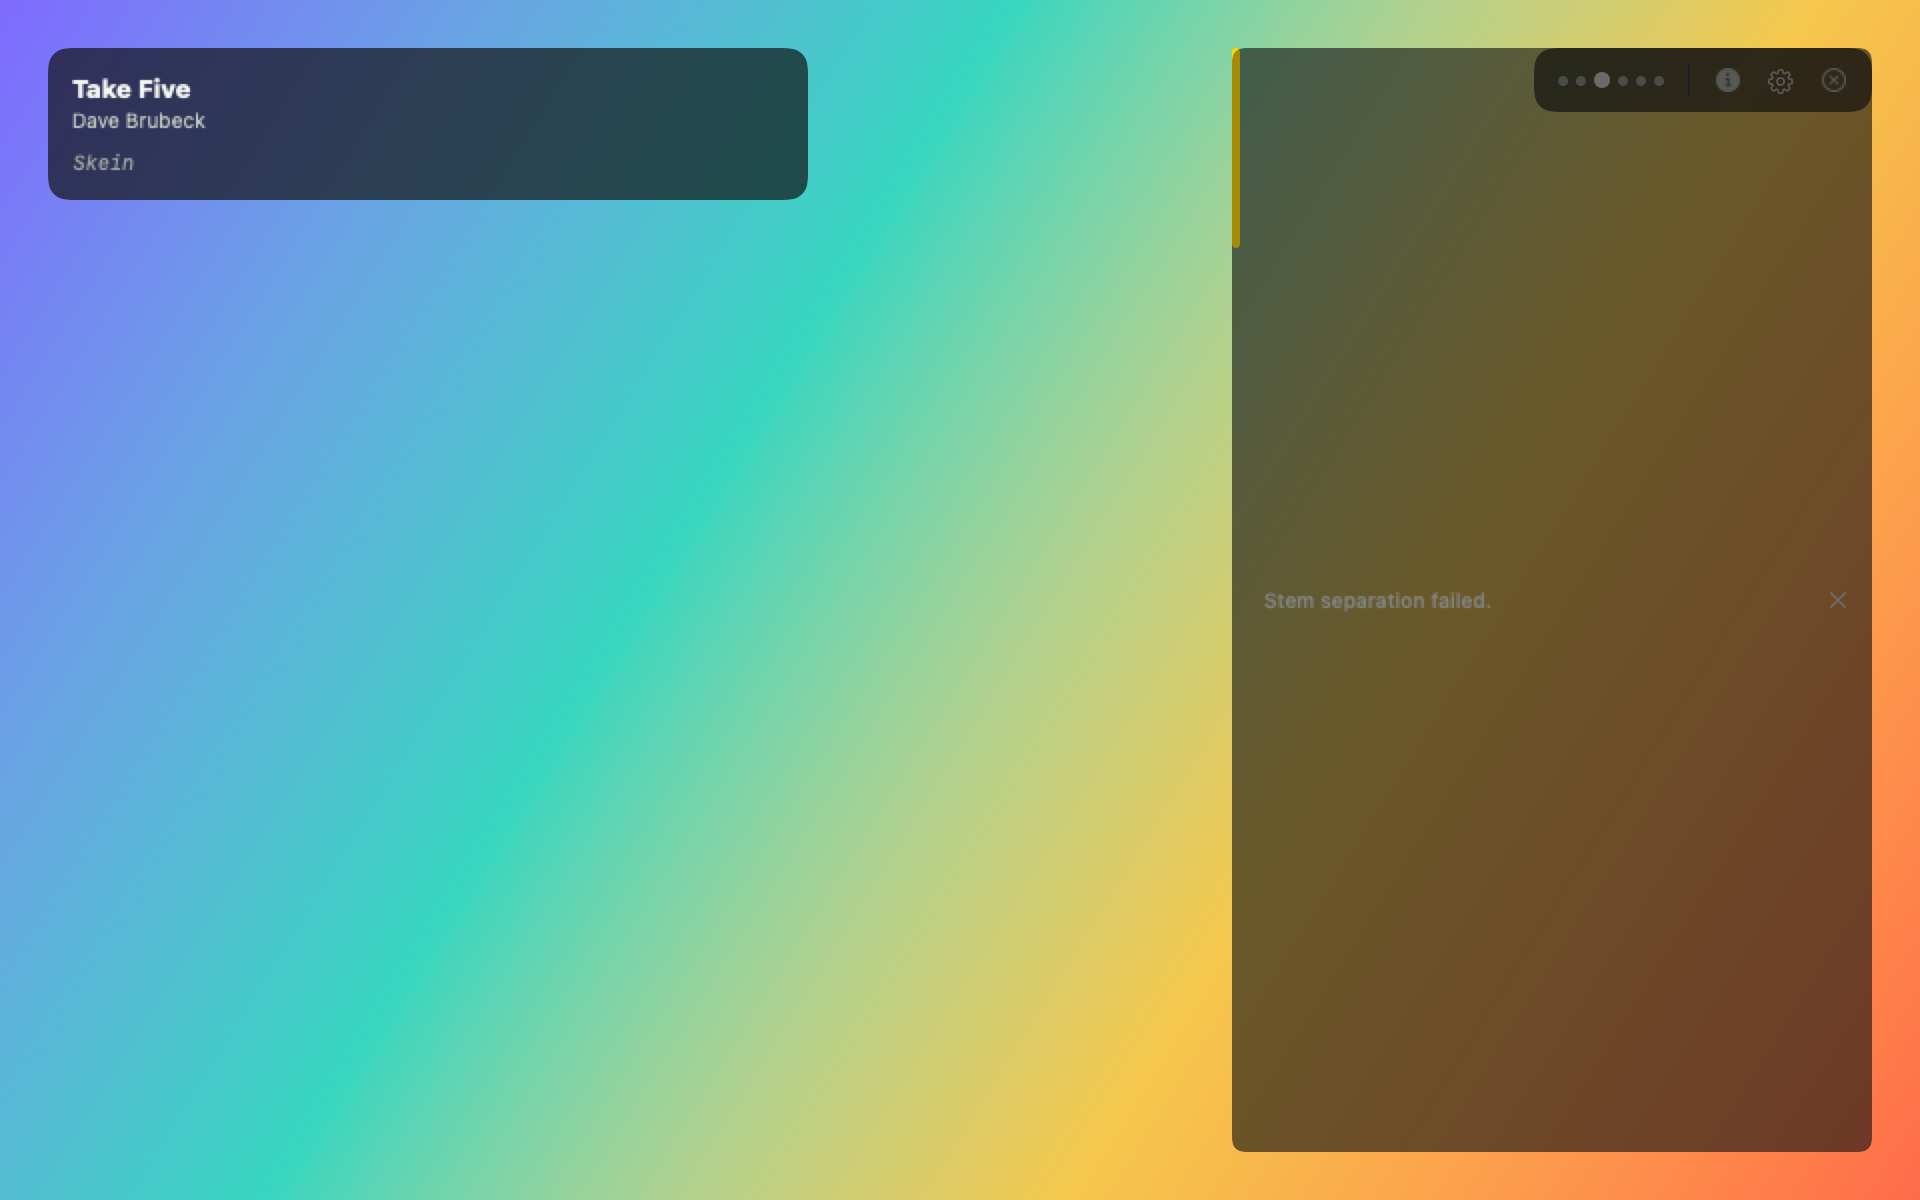
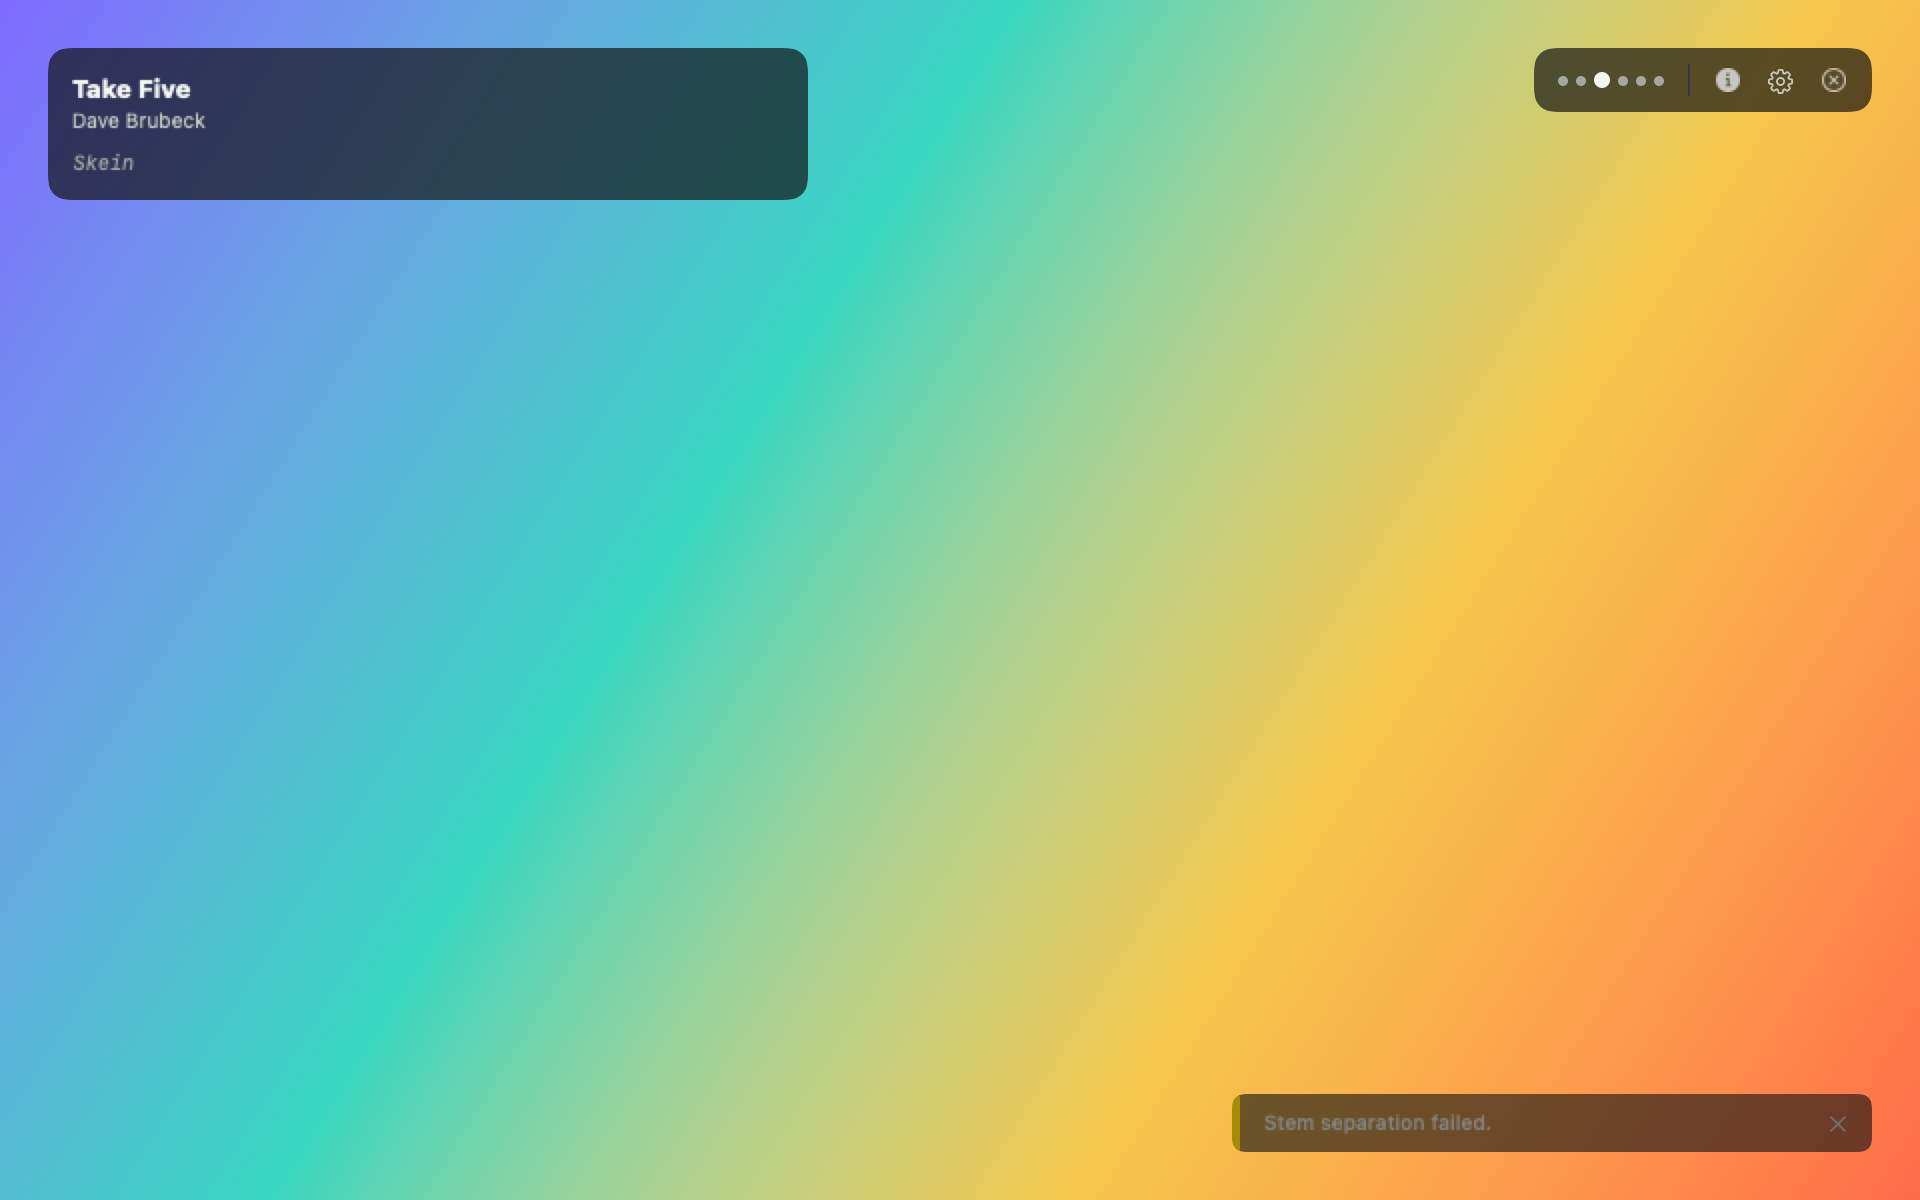
[DS.6] reviews: DS.6 before/after M7 captures
after/ re-rendered on the fixed build; eight window-only live captures of a
local-file session (full after the arrival, quiet, restored by mouse and key,
hidden by Space, track info shown/hidden, the BUG-113 toast before its fix);
CAPTURES.md pairs before/after by filename and marks every inventory row
resolved; UPSTREAM-FINDINGS.md for uzume-site.

Changed region(s): [[0.625, 0.0308, 1.0, 0.9558]]

diff --git a/docs/reviews/DS.6/CAPTURES.md b/docs/reviews/DS.6/CAPTURES.md
@@ -35,7 +35,7 @@ See §Live captures below.
 | `chrome-localFile-paused` | the same, play glyph | **yes** — after Space / the transport's pause |
 | `chrome-listening` | `audioSignalState == .silent` (≥ 3 s): "Listening…" badge top-centre | **yes** — sustained silence mid-session |
 | `chrome-stillPreparing` | `ProgressiveReadinessLevel < .fullyPrepared`: "Still preparing" under the cluster | **yes** — "Start now" before the playlist finished preparing |
-| `chrome-toast-info` / `-warning` / `-degradation` / `-fatal` | one toast per `UzumeToast.Severity`, bottom-trailing | **yes** — display connected / disconnected / stem failure / sustained silence (D-236) |
+| `chrome-toast-info` / `-warning` / `-degradation` / `-fatal` | one toast per `UzumeToast.Severity`, bottom-trailing | **yes** — display connected / disconnected / stem failure / sustained silence (D-236). **`before/` shows BUG-113**: the toast is the full window height. Found here, confirmed live, fixed in DS.6. |
 | `chrome-hidden` | `overlayVisible == false`: nothing drawn, hit-testing off | **yes, before DS.6** — 3 s after any activity. After DS.6 this state is reachable only by the Space toggle; inactivity lands on `chrome-quiet` |
 | `chrome-quiet` *(after only)* | the DS.6 quiet state: one End-session control top-trailing, everything else gone | **yes, after DS.6** — 3 s after any activity |
 | `chrome-trackInfoHidden` *(after only)* | `uzume.settings.visuals.showTrackInformation == false`: no card, no artwork, cluster shows "Show track info" | **yes, after DS.6** |
@@ -53,25 +53,25 @@ these rows and nothing else (fixed-font gate: no output; identifier gate: no out
 
 | # | file:line | what it is | replaced by | resolved |
 |---|---|---|---|---|
-| 1 | `PlaybackChromeView.swift:24` | `Color.teal` — the "still preparing" dot | `StatusTone.info` — the indicator becomes a status placement: `tone.symbol` in `tone.foreground` on `tone.background`, bordered `tone.border` (D-234) | |
-| 2 | `PlaybackChromeView.swift:28` | `.teal.opacity(0.85)` — its text | `StatusTone.info.foreground` | |
-| 3 | `PlaybackChromeView.swift:31` | `.easeIn(duration: 0.4)` — indicator appear | `UzumeAppMotion.standard` (240 ms, exponential ease-out) | |
-| 4 | `PlaybackChromeView.swift:115` | `.easeInOut(duration: 0.5)` — the chrome fade | `UzumeAppMotion.standard` | |
-| 5 | `TrackInfoCardView.swift:136` | `.green.opacity(0.7)` / `.orange.opacity(0.7)` — the Planned/Reactive pill | removed with the pill (D-241 §1) | |
-| 6 | `TrackInfoCardView.swift:142` | `color.opacity(0.15)` — the pill's field | removed with the pill | |
-| 7 | `PlaybackControlsCluster.swift:25` | `Divider().opacity(0.4)` — the separator, a system colour at an ad-hoc alpha | a 1 × 16 pt rule in `UzumeAppColor.line` | |
-| 8 | `SessionProgressDotsView.swift:45`, `:86` | `easeInOut(1.0).repeatForever` — the current-dot pulse | **kept** — an ambient pulse, not a state change; the three design-system durations govern feedback / state / opening. Already removed under reduced motion; `PlaybackChromeReducedMotionTests` pins that | |
-| 9 | `SessionProgressDotsView.swift:92` | `.easeInOut(duration: 0.25)` — current-dot change | `UzumeAppMotion.standard` | |
-| 10 | `ListeningBadgeView.swift:31` | `linear(1.5).repeatForever` — the spinner | **kept** — continuous by design, removed under reduced motion (pinned by the same test) | |
-| 11 | `ListeningBadgeView.swift:45` | `.easeInOut(duration: 0.4)` — badge fade | `UzumeAppMotion.standard` | |
-| 12 | `ToastRegion.swift:26` | `.easeInOut(duration: 0.3)` + `.move(edge:)` — toast insert | `UzumeAppMotion.standard`; reduced motion drops the slide for a crossfade | |
-| 13 | `LocalFileTransportBar.swift:3`, `:13` | the `.impeccable.md` / "coral is action" header | rewritten to the design system's rule: violet is the interaction accent | |
-| 14 | `LocalFileTransportBar.swift:66` | `DashboardTokens.Color.surfaceRaised` | `UzumeAppColor.surfaceRaised` (`--color-surface-raised`) | |
-| 15 | `LocalFileTransportBar.swift:68` | `DashboardTokens.Color.purpleGlow.opacity(0.55)`, radius 28 — the purple glow | `UzumeAppShadow.raised` (`--shadow-raised`: 0 16 42 / 32 % black). DESIGN.md: the bar genuinely floats, so it takes the raised shadow; "vaporwave glow" is a listed Don't | |
-| 16 | `LocalFileTransportBar.swift:76` | `DashboardTokens.Color.border.opacity(0.6)` | `UzumeAppColor.line` (`--color-line`) | |
-| 17 | `LocalFileTransportBar.swift:114`, `:147` | `.easeInOut(duration: 0.15)` — hover | `UzumeAppMotion.feedback` (120 ms) | |
-| 18 | `LocalFileTransportBar.swift:135`, `:136` | `DashboardTokens.Color.textBody` / `.textMuted` — glyph fills | `UzumeAppColor.textPrimary` / `.textTertiary` | |
-| 19 | `PlaybackView.swift:170` | the `.impeccable.md` citation in the dashboard-overlay comment | comment rewritten (the layer itself is untouched — Layer 6 is out of scope) | |
+| 1 | `PlaybackChromeView.swift:24` | `Color.teal` — the "still preparing" dot | `StatusTone.info` — the indicator becomes a status placement: `tone.symbol` in `tone.foreground` on `tone.background`, bordered `tone.border` (D-234) | ✅ |
+| 2 | `PlaybackChromeView.swift:28` | `.teal.opacity(0.85)` — its text | `StatusTone.info.foreground` | ✅ |
+| 3 | `PlaybackChromeView.swift:31` | `.easeIn(duration: 0.4)` — indicator appear | `UzumeAppMotion.standard` (240 ms, exponential ease-out) | ✅ |
+| 4 | `PlaybackChromeView.swift:115` | `.easeInOut(duration: 0.5)` — the chrome fade | `UzumeAppMotion.standard` | ✅ |
+| 5 | `TrackInfoCardView.swift:136` | `.green.opacity(0.7)` / `.orange.opacity(0.7)` — the Planned/Reactive pill | removed with the pill (D-241 §1) | ✅ |
+| 6 | `TrackInfoCardView.swift:142` | `color.opacity(0.15)` — the pill's field | removed with the pill | ✅ |
+| 7 | `PlaybackControlsCluster.swift:25` | `Divider().opacity(0.4)` — the separator, a system colour at an ad-hoc alpha | a 1 × 16 pt rule in `UzumeAppColor.line` | ✅ |
+| 8 | `SessionProgressDotsView.swift:45`, `:86` | `easeInOut(1.0).repeatForever` — the current-dot pulse | **kept** — an ambient pulse, not a state change; the three design-system durations govern feedback / state / opening. Already removed under reduced motion; `PlaybackChromeReducedMotionTests` pins that | ✅ |
+| 9 | `SessionProgressDotsView.swift:92` | `.easeInOut(duration: 0.25)` — current-dot change | `UzumeAppMotion.standard` | ✅ |
+| 10 | `ListeningBadgeView.swift:31` | `linear(1.5).repeatForever` — the spinner | **kept** — continuous by design, removed under reduced motion (pinned by the same test) | ✅ |
+| 11 | `ListeningBadgeView.swift:45` | `.easeInOut(duration: 0.4)` — badge fade | `UzumeAppMotion.standard` | ✅ |
+| 12 | `ToastRegion.swift:26` | `.easeInOut(duration: 0.3)` + `.move(edge:)` — toast insert | `UzumeAppMotion.standard`; reduced motion drops the slide for a crossfade | ✅ |
+| 13 | `LocalFileTransportBar.swift:3`, `:13` | the `.impeccable.md` / "coral is action" header | rewritten to the design system's rule: violet is the interaction accent | ✅ |
+| 14 | `LocalFileTransportBar.swift:66` | `DashboardTokens.Color.surfaceRaised` | `UzumeAppColor.surfaceRaised` (`--color-surface-raised`) | ✅ |
+| 15 | `LocalFileTransportBar.swift:68` | `DashboardTokens.Color.purpleGlow.opacity(0.55)`, radius 28 — the purple glow | `UzumeAppShadow.raised` (`--shadow-raised`: 0 16 42 / 32 % black). DESIGN.md: the bar genuinely floats, so it takes the raised shadow; "vaporwave glow" is a listed Don't | ✅ |
+| 16 | `LocalFileTransportBar.swift:76` | `DashboardTokens.Color.border.opacity(0.6)` | `UzumeAppColor.line` (`--color-line`) | ✅ |
+| 17 | `LocalFileTransportBar.swift:114`, `:147` | `.easeInOut(duration: 0.15)` — hover | `UzumeAppMotion.feedback` (120 ms) | ✅ |
+| 18 | `LocalFileTransportBar.swift:135`, `:136` | `DashboardTokens.Color.textBody` / `.textMuted` — glyph fills | `UzumeAppColor.textPrimary` / `.textTertiary` | ✅ |
+| 19 | `PlaybackView.swift:170` | the `.impeccable.md` citation in the dashboard-overlay comment | comment rewritten (the layer itself is untouched — Layer 6 is out of scope) | ✅ |
 
 Not in the table because no gate fires on them and the design system does not own them: the
 48 pt artwork slot, the 200–380 pt card width, the 44 / 30 pt transport targets (DESIGN.md's
@@ -90,4 +90,23 @@ is extended, not edited.
 
 ## Live captures
 
-*(filled at task 10)*
+Window-only captures (`screencapture -x -o -l<CGWindowID>`) of the real DS.6 build in a local-file
+session (`UZUME_LOCAL_FILE_PLAYBACK=…/so_what.m4a`, 900 × 632 window, 2×), driven by synthetic
+`CGEvent` input after activating the app. In order:
+
+| file | moment |
+|---|---|
+| `live-full-after-arrival.png` | the full chrome, the arrival just faded (card, cluster with three controls, transport) |
+| `live-quiet.png` | 3 s later: End session alone, top-trailing |
+| `live-restored-mouse.png` | a mouse move brings the full chrome back |
+| `live-restored-key.png` | after quiet again, a key press (`j`) brings it back |
+| `live-hidden-space.png` | Space: hidden outright — the only way to nothing |
+| `live-trackInfoShown.png` / `live-trackInfoHidden.png` | the cluster's Show/Hide track info control, clicked; the card and its artwork leave the tree |
+| `live-toast-BUG113-before-fix.png` | `l` (diagnostic hold) raises a toast — and the build before the fix drew it floor to ceiling over the cluster. The evidence for BUG-113; the `after/chrome-toast-*.png` renders are from the fixed build |
+
+**Not captured live: a real streaming session.** It needs Spotify playing; Matt runs that as the
+M7, as at DS.5. The streaming states (card without artwork, planned dots, reactive dot) are
+evidenced by the harness renders above.
+
+Pairs for review, by filename: every `before/chrome-*.png` has an `after/chrome-*.png`;
+`after/` adds `chrome-quiet` and `chrome-trackInfoHidden`.

diff --git a/docs/reviews/DS.6/UPSTREAM-FINDINGS.md b/docs/reviews/DS.6/UPSTREAM-FINDINGS.md
@@ -1,0 +1,62 @@
+# DS.6 — findings for `uzume-site`
+
+Input to a future `uzume-site` increment. DS.6 retokenized the playback chrome in the Uzume
+macOS app and touched nothing in the site repo (D-228). Everything below is something the app
+needed and could not get from the published design system, or a place where the design system
+and the app disagree after this increment.
+
+Reference points: `DesignSystem/COMPONENTS.md` §`PerformanceChrome`, §`TrackInformation`,
+§`PerformanceControls`, §`LocalPlaybackTransport`; `DESIGN.md` §Curator Control Surface, §Shared
+States and Motion, §Shadow Vocabulary; the vendored `UzumeTokens.swift` at `03d5478`.
+
+---
+
+## 1. The tokens carry no motion
+
+`DESIGN.md` §Shared States and Motion names three durations (120 / 240 / 480 ms) and one curve
+(exponential ease-out), and says what reduced motion removes. Neither `tokens.css` nor
+`UzumeTokens.swift` publishes them. The app added `UzumeAppMotion` in `UzumeTokens+App.swift`
+with the same provenance-comment style as the colour roles, and approximates the curve as the
+cubic-bézier (0.16, 1, 0.3, 1). Publishing `--motion-feedback` / `--motion-standard` /
+`--motion-opening` and the curve in the package would let the app consume rather than transcribe.
+
+## 2. The tokens carry no shadow
+
+`DESIGN.md` §Shadow Vocabulary defines `Raised` (`0 16px 42px rgb(0 0 0 / 32%)`) and `Focus`.
+The package publishes neither. The app added `UzumeAppShadow.raised` for the local transport bar.
+
+## 3. "Quiet edge controls" vs. the contrast floor
+
+`DESIGN.md` §Curator Control Surface allows the chrome to "reduce to quiet edge controls after
+inactivity". Read literally as a low-opacity glyph over the live frame, that cannot meet the
+document's own 3:1 floor for meaningful icons on a bright preset. The app's reading (D-241): the
+quiet control is one small control on the certified backdrop at full opacity — small and alone,
+not faint. `COMPONENTS.md` §`PerformanceChrome` §States could name the quiet state and say that
+it keeps the contrast contract, so the next reader does not re-derive this.
+
+## 4. `COMPONENTS.md` names `ToastContainerView`
+
+§`PerformanceChrome` "Existing source" lists `ToastContainerView`. The app renamed it `ToastRegion`
+at DS.3 (`PerformanceToast` is the cell). Same for `SessionProgressDotsView` → the component is
+`SessionPosition`, which is fine; only the toast name is stale.
+
+## 5. `TrackInformation` says "preset name is omitted by default if it weakens surprise"
+
+The app keeps the preset name on the card: it names what is on screen *now*, which the surprise
+model (D-238) allows, and Matt has read it that way since U.6. The orchestrator pill
+("Planned / Reactive") is what was removed. If the design system wants the preset name off by
+default, that is a product call for Matt, not something the app can infer from the sentence.
+
+## 6. Control target sizes in the transport bar
+
+`DESIGN.md` §Components gives 44 px as the minimum target on the website. The transport bar's
+play/pause disc is 44 pt; the stop / previous / next controls are 30 pt hit areas. The native
+document does not state a minimum. Recorded, not changed: the bar's geometry is the GAP C
+design Matt approved, and 30 pt matches AppKit's own small controls.
+
+## 7. Toasts fade with the chrome
+
+Pre-existing, not introduced here: `ToastRegion` sits inside the chrome's visibility, so a
+toast raised while the chrome is quiet is unseen until the mouse moves. `COMPONENTS.md`
+§`PerformanceChrome` says the chrome carries the "notification behaviour"; whether a toast
+should wake the chrome for its lifetime is a product decision recorded for Matt in D-241.
